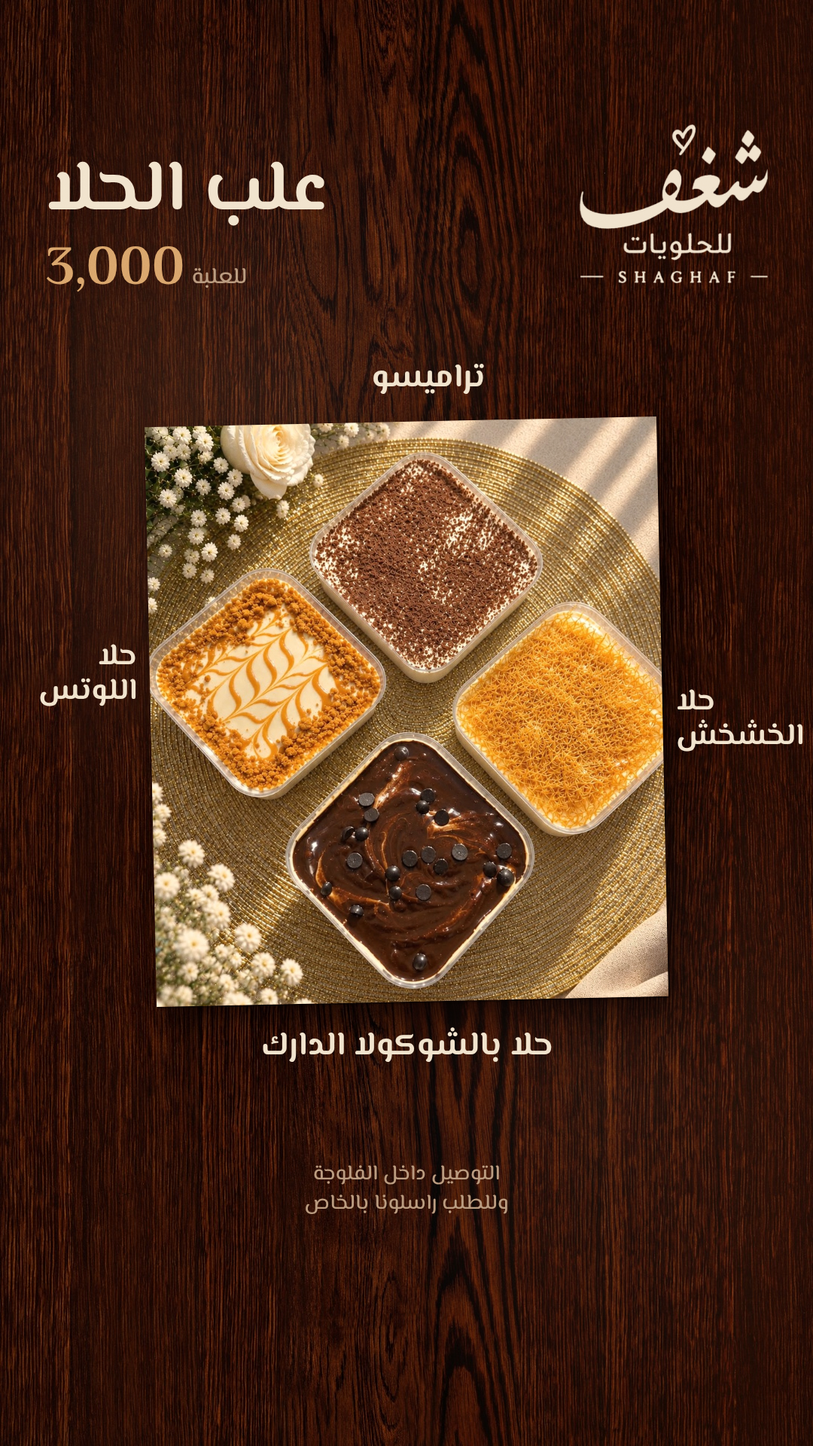
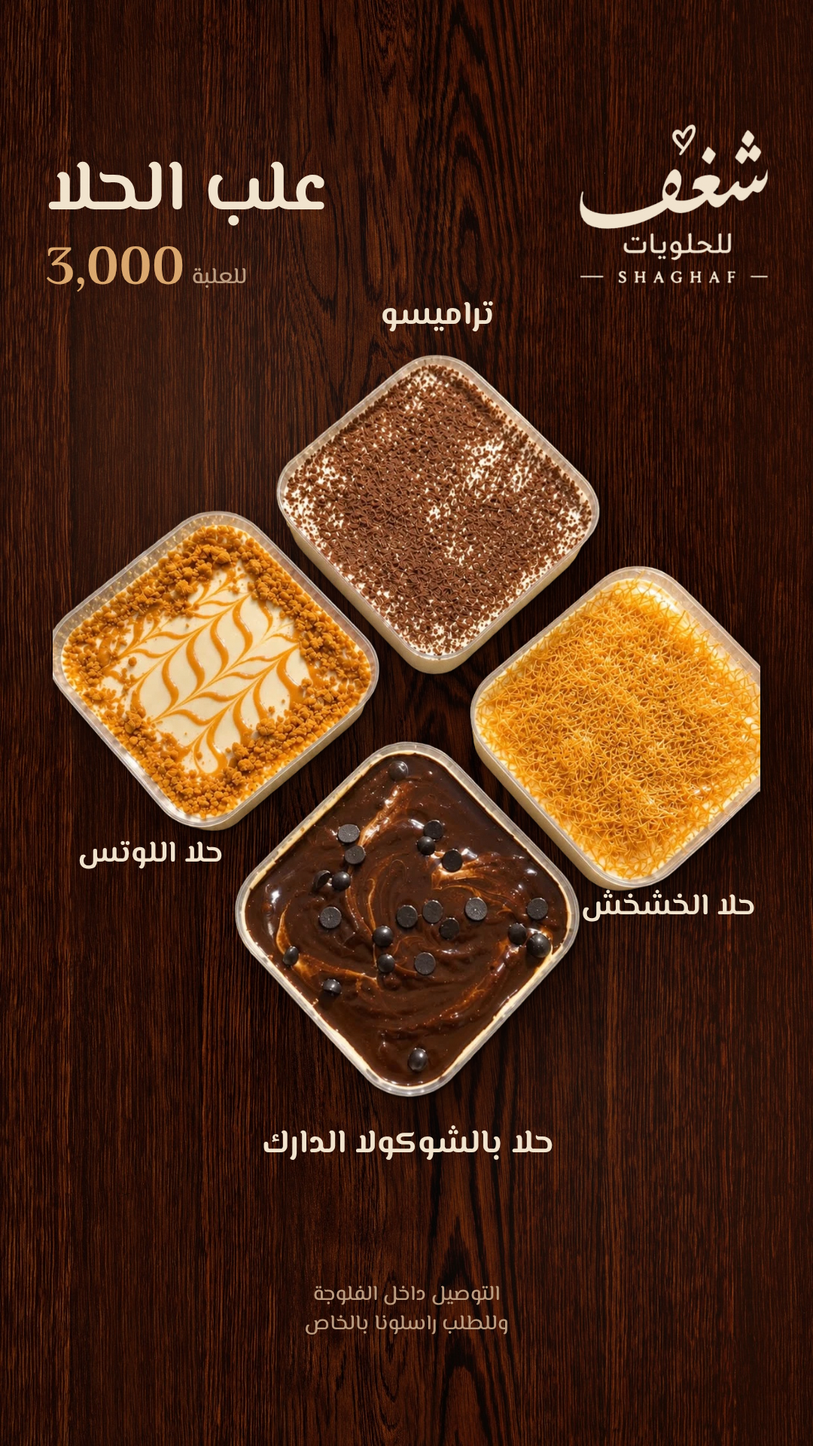
Shaghaf menu: cups story with my cut-out on the table

diff --git a/marketing/shaghaf-menu/menu.html b/marketing/shaghaf-menu/menu.html
@@ -65,15 +65,15 @@ const STORIES = {
     ],
   },
   'story-3': {
-    note: [540, 1540, 'center'],
+    note: [540, 1700, 'center'],
     head: true,
-    o: [['cups', 'print', 200, 560, 680, -1.2]],
-    // each name sits on the side of the photo where its cup is
+    // his cut-out of the four cups, laid on the table; each name sits next to its own cup
+    o: [['cups-cut.png', 'round', 70, 470, 940, 0]],
     t: [
-      [569, 478, 'center', 'تراميسو', '', '', 44],
-      [182, 850, 'right', 'حلا<br>اللوتس', '', '', 40],
-      [898, 910, 'left', 'حلا<br>الخشخش', '', '', 40],
-      [541, 1365, 'center', 'حلا بالشوكولا الدارك', '', '', 44],
+      [581, 395, 'center', 'تراميسو', '', '', 44],
+      [200, 1112, 'center', 'حلا اللوتس', '', '', 40],
+      [888, 1182, 'center', 'حلا الخشخش', '', '', 40],
+      [542, 1495, 'center', 'حلا بالشوكولا الدارك', '', '', 44],
     ],
   },
 };
@@ -86,7 +86,7 @@ function grain(seed) {
 
 function obj([img, kind, x, y, w, r, clip]) {
   return `<div class="obj ${kind}" style="left:${x}px;top:${y}px;width:${w}px;transform:rotate(${r}deg)">
-    <img src="art/photos/${img}.jpg" style="${clip ? `clip-path:${clip}` : ''}"></div>`;
+    <img src="${img.endsWith('.png') ? 'art/' + img : `art/photos/${img}.jpg`}" style="${clip ? `clip-path:${clip}` : ''}"></div>`;
 }
 
 function txt([x, y, align, n, s, p, size]) {

diff --git a/marketing/shaghaf-menu/photos.py b/marketing/shaghaf-menu/photos.py
@@ -13,7 +13,6 @@ CROPS = [  # name, photo, box in pixels
     ('cinnabon',       '859144057', (0, 170, 1086, 1256)),
     ('cake',           '867588736', (0, 300, 1242, 1542)),
     ('marble-cake',    '862425682', (0, 575, 1290, 1865)),
-    ('cups',           '836468147', (0, 110, 1086, 1340)),  # the four cups whole, on her gold mat
 ]
 
 def grade(im):
